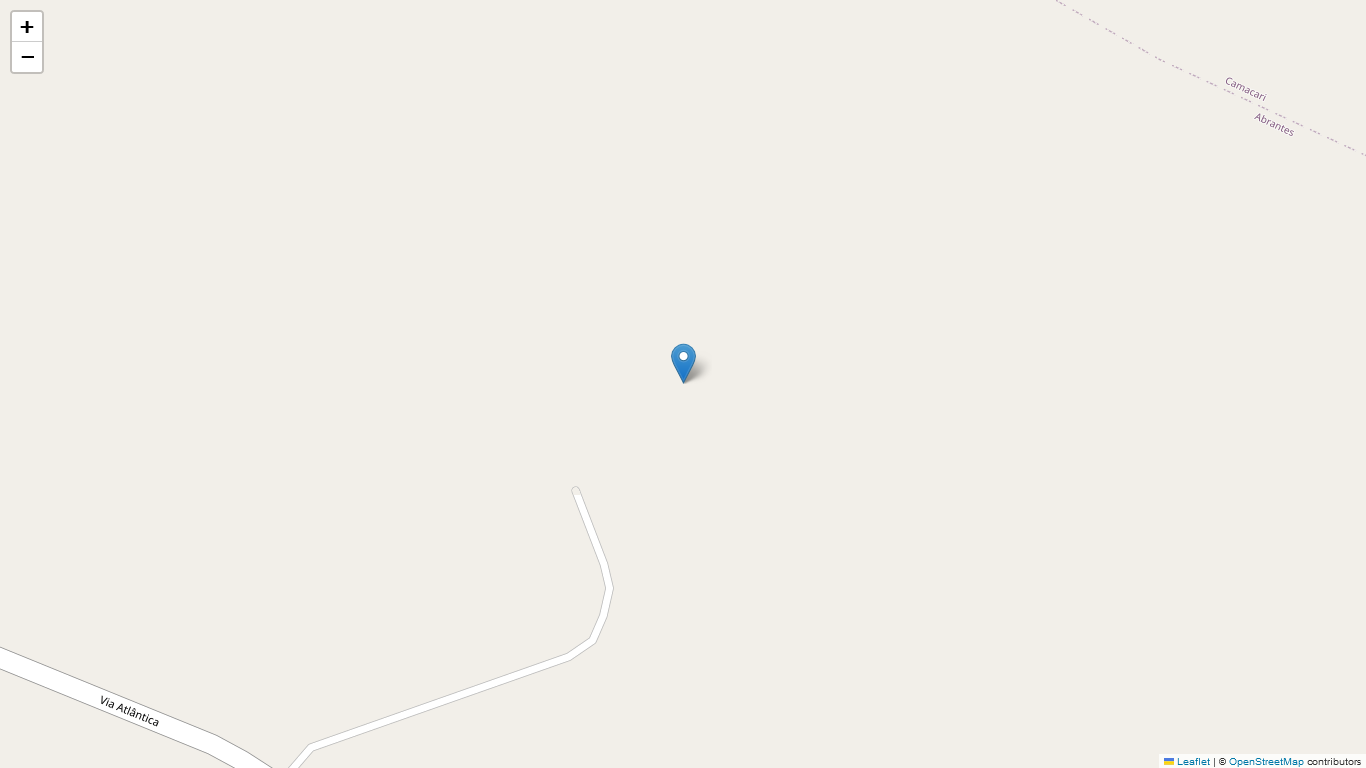
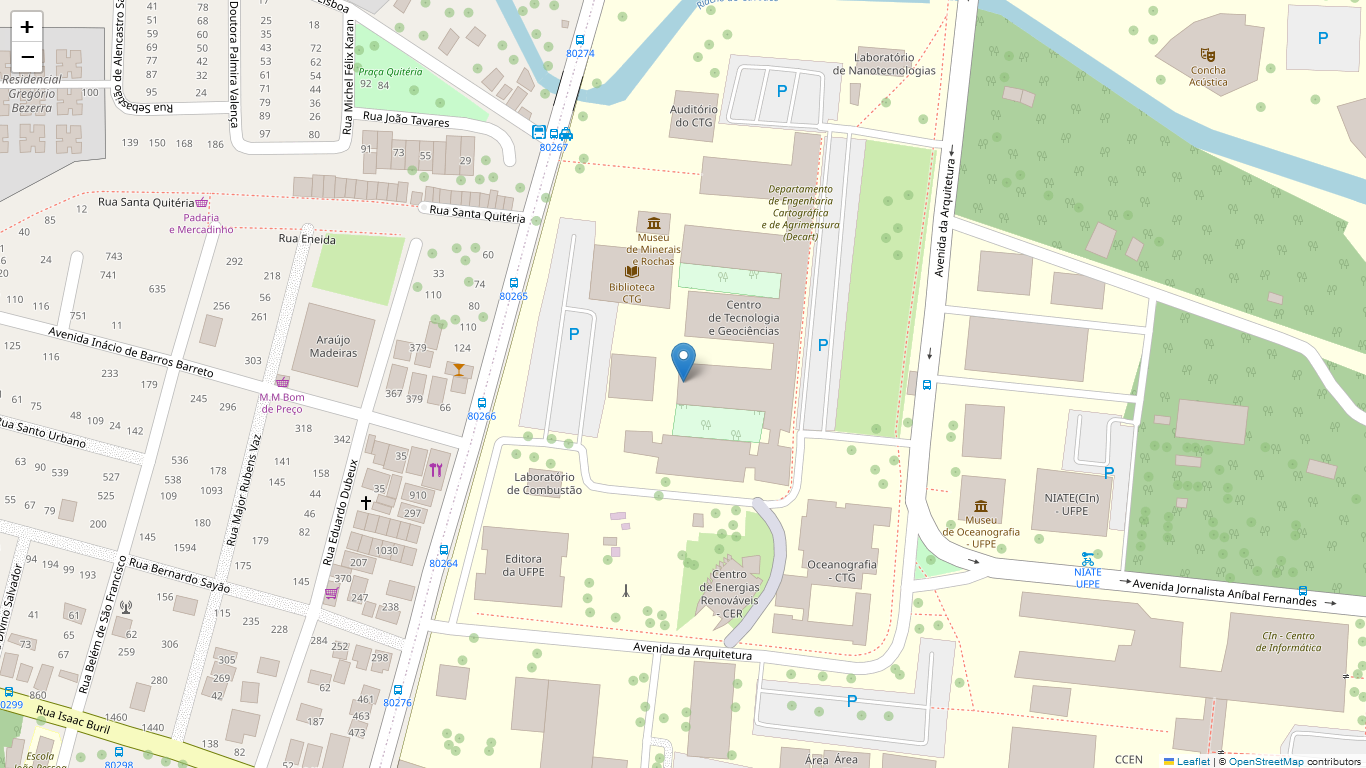
Nacional 2024v

diff --git a/Mangue_Telemetry/Files_image/map.html b/Mangue_Telemetry/Files_image/map.html
@@ -25,7 +25,7 @@
             <meta name="viewport" content="width=device-width,
                 initial-scale=1.0, maximum-scale=1.0, user-scalable=no" />
             <style>
-                #map_f9f752aa4b1ea1abbb186ca28c8fa2a5 {
+                #map_29ab6811609b040ca16ff7c82fe57d95 {
                     position: relative;
                     width: 100.0%;
                     height: 100.0%;
@@ -39,16 +39,16 @@
 <body>
     
     
-            <div class="folium-map" id="map_f9f752aa4b1ea1abbb186ca28c8fa2a5" ></div>
+            <div class="folium-map" id="map_29ab6811609b040ca16ff7c82fe57d95" ></div>
         
 </body>
 <script>
     
     
-            var map_f9f752aa4b1ea1abbb186ca28c8fa2a5 = L.map(
-                "map_f9f752aa4b1ea1abbb186ca28c8fa2a5",
+            var map_29ab6811609b040ca16ff7c82fe57d95 = L.map(
+                "map_29ab6811609b040ca16ff7c82fe57d95",
                 {
-                    center: [-12.708088, -38.173269],
+                    center: [-8.05412547334718, -34.95485847887204],
                     crs: L.CRS.EPSG3857,
                     zoom: 18,
                     zoomControl: true,
@@ -60,19 +60,19 @@
 
         
     
-            var tile_layer_db6f21cd647cdf09da45d00a210b6c75 = L.tileLayer(
+            var tile_layer_584f626171bcf2f4a80c4d439566e822 = L.tileLayer(
                 "https://tile.openstreetmap.org/{z}/{x}/{y}.png",
                 {"attribution": "\u0026copy; \u003ca href=\"https://www.openstreetmap.org/copyright\"\u003eOpenStreetMap\u003c/a\u003e contributors", "detectRetina": false, "maxNativeZoom": 19, "maxZoom": 19, "minZoom": 0, "noWrap": false, "opacity": 1, "subdomains": "abc", "tms": false}
             );
         
     
-            tile_layer_db6f21cd647cdf09da45d00a210b6c75.addTo(map_f9f752aa4b1ea1abbb186ca28c8fa2a5);
+            tile_layer_584f626171bcf2f4a80c4d439566e822.addTo(map_29ab6811609b040ca16ff7c82fe57d95);
         
     
-            var marker_7eebae4d49af97aad26dc9a23f1c0fb5 = L.marker(
-                [-12.708088, -38.173269],
+            var marker_7d2fda841e2033a238e01d350f7c4bda = L.marker(
+                [-8.05412547334718, -34.95485847887204],
                 {}
-            ).addTo(map_f9f752aa4b1ea1abbb186ca28c8fa2a5);
+            ).addTo(map_29ab6811609b040ca16ff7c82fe57d95);
         
 </script>
 </html>

diff --git a/Mangue_Telemetry/TelemetriaBaja.py b/Mangue_Telemetry/TelemetriaBaja.py
@@ -21,7 +21,7 @@ import struct
 import serial
 ###### Conectivity IMPORTS ######
 from paho.mqtt import client as mqtt_client
-import sqlite3
+#import sqlite3
 import json
 import pandas as pd
 
@@ -30,7 +30,8 @@ DIR = os.path.dirname(os.path.abspath(__file__))
 
 broker = "64.227.19.172"
 port = 1883
-topic = "/logging"
+#topic = "/logging"
+topic = "/ToRead"
 client_id = f'python-mqtt-{random.randint(0, 1000)}'
 username = 'manguebaja'
 password = 'aratucampeao'
@@ -38,7 +39,7 @@ password = 'aratucampeao'
 # DataBase topics #
 AV_topic = "/AV_logging"
 
-SIZE = 50 # Size of message packet
+SIZE = 47 # Size of message packet
 # https://docs.python.org/pt-br/3.7/library/struct.html
 FORMAT = '<B6h2H4Bf2dIB'
 
@@ -129,9 +130,9 @@ def subscribe(client: mqtt_client, topic):
         mqtt_msg_str = msg.payload.decode('utf-8')
         mqtt_msg_json = json.loads(mqtt_msg_str)
 
-        accx.append(mqtt_msg_json["accx"])
-        accy.append(mqtt_msg_json["accy"])
-        accz.append(mqtt_msg_json["accz"])
+        accx.append(mqtt_msg_json["accx"]*0.061/1000)
+        accy.append(mqtt_msg_json["accy"]*0.061/1000)
+        accz.append(mqtt_msg_json["accz"]*0.061/1000)
         rpm.append(mqtt_msg_json["rpm"])
         speed.append(mqtt_msg_json["speed"])
         temp_motor.append(mqtt_msg_json["motor"])
@@ -149,7 +150,6 @@ def subscribe(client: mqtt_client, topic):
 
 def publish(client: mqtt_client, path, msg):
     result = client.publish(path, msg)
-    # result: [0, 1]
     #status = result[0]
     #if status == 0:
     #    print(f"Send `{msg_to_json}` to topic `{path}`")
@@ -229,7 +229,6 @@ class Receiver(threading.Thread):
         try:
             pckt = list(struct.unpack_from(FORMAT, msg))
         except struct.error:
-            #print("erro")
             pass
         #print(pckt)
 
@@ -298,7 +297,6 @@ class Receiver(threading.Thread):
             #fuel_level.append(pckt[16])
             timestamp.append(pckt[16])
             sat.append(pckt[17])
-
 
             car_save.append("MB1")
             accx_save.append(pckt[1] * 0.061 / 1000)
@@ -614,13 +612,13 @@ class Ui_MainWindow(object):
             self.update_plots(eixo, sig_rpm, eixo, sig_speed)
             self.update_map((latitude[-1], longitude[-1]))
 
-            self.acc_x.setText(f"Acc x = {round(accx[-1], 1)}g")
-            self.acc_y.setText(f"Acc y = {round(accy[-1], 1)}g")
-            self.acc_z.setText(f"Acc z = {round(accz[-1], 1)}g")
+            self.acc_x.setText(f"Acc x = {round(accx[-1], 2)}g")
+            self.acc_y.setText(f"Acc y = {round(accy[-1], 2)}g")
+            self.acc_z.setText(f"Acc z = {round(accz[-1], 2)}g")
 
             self.batt.setText(f"Bateria = {soc[-1]}%")
 
-            self.temp_cvt.setText(f"CVT = {temp_cvt[-1]}ºC")
+            self.temp_cvt.setText(f"CVT = {round(temp_cvt[-1])}ºC")
             self.temp_motor.setText(f"Motor = {round(temp_motor[-1])}ºC")
 
             #if fuel_level[-1] != 0:
@@ -629,6 +627,8 @@ class Ui_MainWindow(object):
             #else:
             #    self.fuel.setPixmap(QtGui.QPixmap("fuel_empty_vector.jpg"))
             #    self.fuel.setScaledContents(True)
+
+            print(sat[-1], "\r\n")
 
             time.sleep(0.5)
 
@@ -660,9 +660,9 @@ class Ui_MainWindow(object):
             self.update_plots(eixo, sig_rpm, eixo, sig_speed)
             self.update_map((latitude[-1], longitude[-1]))
 
-            self.acc_x.setText(f"Acc x = {round(accx[-1], 1)}g")
-            self.acc_y.setText(f"Acc y = {round(accy[-1], 1)}g")
-            self.acc_z.setText(f"Acc z = {round(accz[-1], 1)}g")
+            self.acc_x.setText(f"Acc x = {round(accx[-1], 2)}g")
+            self.acc_y.setText(f"Acc y = {round(accy[-1], 2)}g")
+            self.acc_z.setText(f"Acc z = {round(accz[-1], 2)}g")
 
             self.batt.setText(f"Bateria = {soc[-1]}%")
             self.temp_cvt.setText(f"CVT = {round(sig_tempcvt[-1])}ºC")
